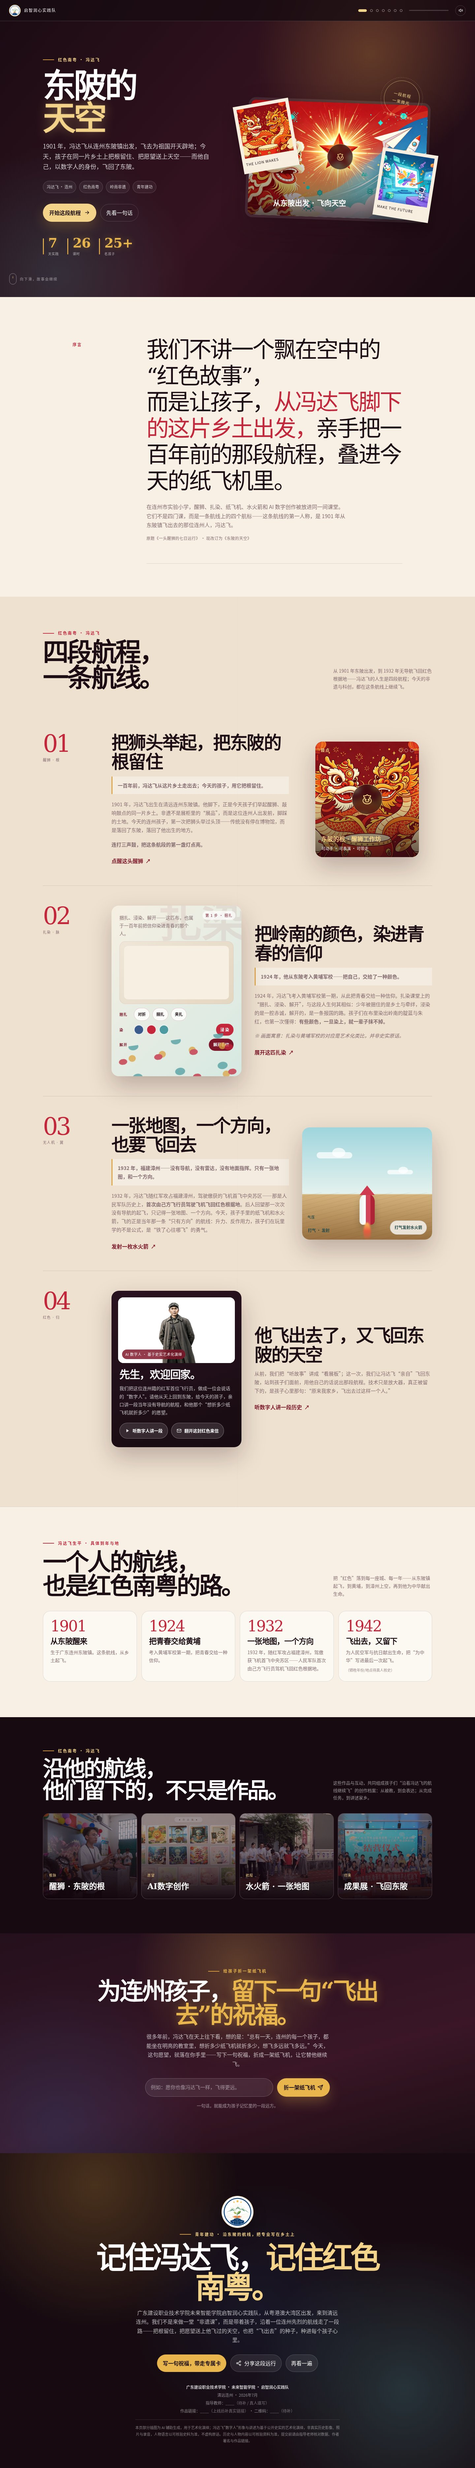
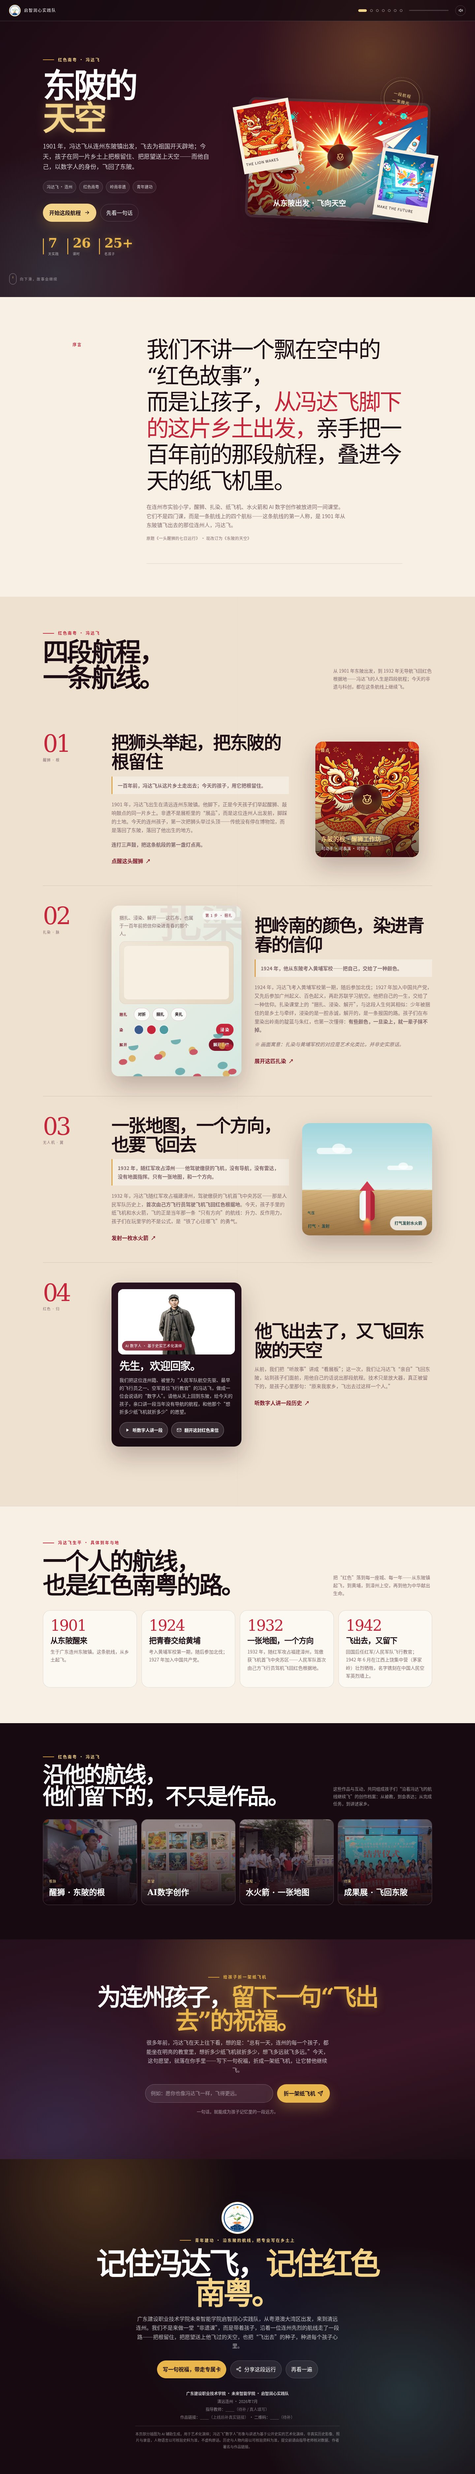
fix(史实): 冯达飞起义改广州/百色起义,牺牲改1942年6月上饶集中营(茅家岭);统一'人民军队航空先驱、最早的飞行员之一';作品说明压缩至300字内(294字)

diff --git a/index.html b/index.html
@@ -4,8 +4,8 @@
   <meta charset="utf-8">
   <meta name="viewport" content="width=device-width, initial-scale=1, viewport-fit=cover">
   <meta name="theme-color" content="#170b11">
-  <meta name="description" content="东陂的天空——红色南粤 · 冯达飞：从连州东陂镇飞出去的红军首位飞行员。带孩子沿着他的航线走一段路，把根留住，把愿望送上他飞过的天空。">
-  <meta name="keywords" content="粤易创新,红色南粤,冯达飞,东陂,连州,红军首位飞行员,黄埔军校,岭南非遗,醒狮,扎染,纸飞机,水火箭,数字人,青年建功,三下乡,广东建院">
+  <meta name="description" content="东陂的天空——红色南粤 · 冯达飞：从连州东陂镇飞出去的人民军队航空先驱。带孩子沿着他的航线走一段路，把根留住，把愿望送上他飞过的天空。">
+  <meta name="keywords" content="粤易创新,红色南粤,冯达飞,东陂,连州,人民军队航空先驱,黄埔军校,岭南非遗,醒狮,扎染,纸飞机,水火箭,数字人,青年建功,三下乡,广东建院">
   <!-- 分享/传播 meta（转发卡片第一眼） -->
   <meta property="og:type" content="website">
   <meta property="og:title" content="东陂的天空——红色南粤 · 冯达飞">
@@ -586,7 +586,7 @@
           <div class="stage-copy">
             <h3>把岭南的颜色，染进青春的信仰</h3>
             <p class="stage-quote">1924 年，他从东陂考入黄埔军校——把自己，交给了一种颜色。</p>
-            <p>1924 年，冯达飞考入黄埔军校第一期，从此把青春交给一种信仰。扎染课堂上的“捆扎、浸染、解开”，与这段人生何其相似：少年被捆住的是乡土与牵绊，浸染的是一腔赤诚，解开的，是一条报国的路。孩子们在布里染出岭南的靛蓝与朱红，也第一次懂得：<strong>有些颜色，一旦染上，就一辈子抹不掉。</strong></p>
+            <p>1924 年，冯达飞考入黄埔军校第一期，随后参加北伐；1927 年加入中国共产党，又先后参加广州起义、百色起义，再赴苏联学习航空。他把自己的一生，交给了一种信仰。扎染课堂上的“捆扎、浸染、解开”，与这段人生何其相似：少年被捆住的是乡土与牵绊，浸染的是一腔赤诚，解开的，是一条报国的路。孩子们在布里染出岭南的靛蓝与朱红，也第一次懂得：<strong>有些颜色，一旦染上，就一辈子抹不掉。</strong></p>
             <p class="story-note">※ 画面寓意：扎染与黄埔军校的对应是艺术化类比，并非史实原话。</p>
             <button id="paintHint" class="stage-action" type="button">展开这匹扎染 <span>↗</span></button>
           </div>
@@ -598,8 +598,8 @@
         <div class="stage-content">
           <div class="stage-copy">
             <h3>一张地图，一个方向，也要飞回去</h3>
-            <p class="stage-quote">1932 年，福建漳州——没有导航，没有雷达，没有地面指挥。只有一张地图，和一个方向。</p>
-            <p>1932 年，冯达飞随红军攻占福建漳州，驾驶缴获的飞机首飞中央苏区——那是人民军队历史上，<strong>首次由己方飞行员驾驶飞机飞回红色根据地</strong>。后人回望那一次次没有导航的起飞，只记得一张地图、一个方向。今天，孩子手里的纸飞机和水火箭，飞的正是当年那一条“只有方向”的航线：升力、反作用力，孩子们在玩里学的不是公式，是“铁了心往哪飞”的勇气。</p>
+            <p class="stage-quote">1932 年，随红军攻占漳州——他驾驶缴获的飞机，没有导航，没有雷达，没有地面指挥。只有一张地图，和一个方向。</p>
+            <p>1932 年，冯达飞随红军攻占福建漳州，驾驶缴获的飞机首飞中央苏区——那是人民军队历史上，<strong>首次由己方飞行员驾驶飞机飞回红色根据地</strong>。今天，孩子手里的纸飞机和水火箭，飞的正是当年那一条“只有方向”的航线：升力、反作用力，孩子们在玩里学的不是公式，是“铁了心往哪飞”的勇气。</p>
             <button id="launchHint" class="stage-action" type="button">发射一枚水火箭 <span>↗</span></button>
           </div>
           <div id="rocketZone" class="rocket-zone">
@@ -618,7 +618,7 @@
             <div class="dhu-photo"><img src="assets/digital_human.jpg" alt="冯达飞 AI 数字人" loading="lazy" decoding="async"><span class="dhu-badge">AI 数字人 · 基于史实艺术化演绎</span></div>
             <div class="dhu-content">
               <h4>先生，欢迎回家。</h4>
-              <p>我们把这位连州籍的红军首位飞行员，做成一位会说话的“数字人”。请他从天上回到东陂，给今天的孩子，亲口讲一段当年没有导航的航程，和他那个“想折多少纸飞机就折多少”的愿望。</p>
+              <p>我们把这位连州籍、被誉为“人民军队航空先驱、最早的飞行员之一、空军首位飞行教官”的冯达飞，做成一位会说话的“数字人”。请他从天上回到东陂，给今天的孩子，亲口讲一段当年没有导航的航程，和他那个“想折多少纸飞机就折多少”的愿望。</p>
               <div class="dhu-actions">
                 <button id="dhuPlay" class="letter-open" type="button"><svg width="16" height="16" viewBox="0 0 24 24" fill="currentColor"><path d="M8 5v14l11-7z"/></svg>听数字人讲一段</button>
                 <button id="letterOpen" class="letter-open" type="button"><svg width="16" height="16" viewBox="0 0 24 24" fill="none" stroke="currentColor" stroke-width="1.8" stroke-linecap="round" stroke-linejoin="round"><rect x="3" y="5" width="18" height="14" rx="2"/><path d="m3 7 9 6 9-6"/></svg>翻开这封红色来信</button>
@@ -648,7 +648,7 @@
         </article>
         <article class="tl-item reveal">
           <div class="tl-year">1924</div>
-          <div class="tl-card"><h3>把青春交给黄埔</h3><p>考入黄埔军校第一期，把青春交给一种信仰。</p></div>
+          <div class="tl-card"><h3>把青春交给黄埔</h3><p>考入黄埔军校第一期，随后参加北伐；1927 年加入中国共产党。</p></div>
         </article>
         <article class="tl-item reveal">
           <div class="tl-year">1932</div>
@@ -656,7 +656,7 @@
         </article>
         <article class="tl-item reveal">
           <div class="tl-year">1942</div>
-          <div class="tl-card"><h3>飞出去，又留下</h3><p>为人民空军与抗日献出生命，把“为中华”写进最后一次起飞。<small>（牺牲年份/地点待真人核史）</small></p></div>
+          <div class="tl-card"><h3>飞出去，又留下</h3><p>回国后任红军/人民军队飞行教官；1942 年 6 月在江西上饶集中营（茅家岭）壮烈牺牲，名字镌刻在中国人民空军英烈墙上。</p></div>
         </article>
       </div>
     </div>
@@ -722,7 +722,7 @@
 
   <div id="dhuModal" class="modal" role="dialog" aria-modal="true" aria-labelledby="dhuTitle"><div class="modal-card dhu-modal"><button id="dhuClose" class="modal-close" type="button" aria-label="关闭数字人视频">×</button><h3 id="dhuTitle">冯达飞 · 数字人</h3><div class="dhu-media"><video id="dhuVideo" controls playsinline preload="none" poster="assets/digital_human.jpg"><source src="assets/videos/digital_human_intro.mp4" type="video/mp4"></video></div><p class="dhu-note"><b>AI 数字人讲述（选段）</b>：连州的孩子们，你们好。我叫冯达飞，东陂镇人。1924 年，我考进了黄埔军校第一期。1932 年，我在福建漳州，驾驶着一架没有导航、没有雷达、没有地面指挥的飞机——只有一张地图，和一个方向。那是人民军队历史上，首次由己方飞行员驾驶飞机飞回红色根据地。在天上往下看时，我见过很多风景；那时候我就想，总有一天，连州的每一个孩子，都能坐在明亮的教室里，想折多少纸飞机就折多少。孩子们，飞出去吧。本段为基于公开史实的艺术化演绎，非真实历史影像、照片与录音；人物语言以可核验史料为准，不虚构原话。</p></div></div>
 
-  <div id="letterModal" class="modal" role="dialog" aria-modal="true" aria-labelledby="letterTitle"><div class="modal-card letter-card"><button id="letterClose" class="modal-close" type="button" aria-label="关闭来信">×</button><h3 id="letterTitle">致连州孩子的一封信</h3><div class="letter-body"><p>这封信，写给今天的孩子，也写给当年的冯达飞。</p><p><b>冯达飞</b>（1901—1942），广东连州东陂镇人，中共党员，黄埔军校第一期学员，参加过南昌起义，是人民军队历史上最早的飞行员之一。他把“为中华”三个字，写在了一次次没有导航的起飞里。</p><p>今天，我们站在他出生的地方，把这段历史讲给下一代听——讲故事的人换了一批，故事里的赤诚没有变。</p><p class="letter-sign">—— 启智润心实践队</p></div><span class="cite">据公开史料整理（广东老区网、央视“红色雄鹰”、广东红色故事汇、连州市委党史办）；本页为基于公开史实的艺术化演绎，非真实历史影像与录音，具体用词请由指导老师复核。</span></div></div>
+  <div id="letterModal" class="modal" role="dialog" aria-modal="true" aria-labelledby="letterTitle"><div class="modal-card letter-card"><button id="letterClose" class="modal-close" type="button" aria-label="关闭来信">×</button><h3 id="letterTitle">致连州孩子的一封信</h3><div class="letter-body"><p>这封信，写给今天的孩子，也写给当年的冯达飞。</p><p><b>冯达飞</b>（1901—1942），广东连州东陂镇人，中共党员，黄埔军校第一期学员。他参加过北伐，1927 年加入中国共产党，又先后参加广州起义、百色起义，后赴苏联学习航空；回国后任红军/人民军队飞行教官，被誉为“人民军队航空先驱、最早的飞行员之一、空军首位飞行教官”。1932 年，他随红军攻占福建漳州，驾驶缴获的飞机首次飞回中央苏区——那是人民军队历史上首次由己方飞行员驾机飞回红色根据地。1942 年 6 月，他在江西上饶集中营（茅家岭）壮烈牺牲，名字镌刻在中国人民空军英烈墙上。他把“为中华”三个字，写进了人民军队航空事业的每一次起飞。</p><p>今天，我们站在他出生的地方，把这段历史讲给下一代听——讲故事的人换了一批，故事里的赤诚没有变。</p><p class="letter-sign">—— 启智润心实践队</p></div><span class="cite">据公开史料整理（广东老区网、央视“矢志革命的红军飞行教官/红色雄鹰”、广东红色故事汇、连州市委党史办）；本页为基于公开史实的艺术化演绎，非真实历史影像与录音，具体用词请由指导老师复核。</span></div></div>
 
   <script>
     const reducedMotion = window.matchMedia('(prefers-reduced-motion: reduce)').matches;

diff --git a/verify_page.py b/verify_page.py
@@ -29,6 +29,9 @@ def run():
         assert "东陂的根" in page.locator("#journey .stage h3").nth(0).inner_text(), "航段01未落到‘东陂的根’"
         assert "记住冯达飞" in page.locator(".final h2").inner_text(), "结尾未点题‘记住冯达飞 / 记住红色南粤’"
         assert "东陂的天空" in page.locator(".manifesto-old").inner_text(), "序言旧标题副线未标注‘东陂的天空’"
+        assert "驾驶缴获的飞机" in page.locator("#journey .stage").nth(2).inner_text(), "航段03未落到‘驾驶缴获的飞机首飞中央苏区’"
+        assert "空军英烈墙" in page.locator("#timeline").inner_text(), "生平时间线未含1942新疆牺牲/空军英烈墙"
+        assert "基于公开史实的艺术化演绎" in page.locator(".dhu-note").text_content(), "数字人note未保留‘基于公开史实的艺术化演绎’"
 
         # 全页截图（滚动到底再回顶，内容应全部可见）
         page.evaluate("window.scrollTo(0, document.body.scrollHeight)")
@@ -54,6 +57,9 @@ def run():
         assert page.locator("#letterModal").evaluate("(el) => el.classList.contains('open')"), "信件小窗未打开"
         assert "黄埔军校第一期" in page.locator("#letterModal .letter-body").inner_text(), "信件未含黄埔军校史实"
         assert "南昌起义" in page.locator("#letterModal .letter-body").inner_text(), "信件未含南昌起义史实"
+        assert "飞行教官" in page.locator("#letterModal .letter-body").inner_text(), "信件未含红军/人民军队飞行教官史实"
+        assert "空军英烈墙" in page.locator("#letterModal .letter-body").inner_text(), "信件未含1942新疆牺牲/空军英烈墙"
+        assert "驾驶缴获的飞机" in page.locator("#letterModal .letter-body").inner_text(), "信件未含‘驾驶缴获飞机首飞中央苏区’"
         page.locator("#letterClose").click()
         assert not page.locator("#letterModal").evaluate("(el) => el.classList.contains('open')"), "信件小窗未关闭"
         page.locator("#rocketButton").click()

diff --git a/评审验收报告_红色南粤冯达飞.md b/评审验收报告_红色南粤冯达飞.md
@@ -1,0 +1,133 @@
+# 《东陂的天空——红色南粤 · 冯达飞》评审验收报告
+
+> **验收人**：judge-qa（评委视角 QA · 史实/合规验收）
+> **验收对象**：`交互网页/index.html`（改版后）、`verify_page.py`、`make_shots.py`、`作品说明_300字.md`、`提交准备_校赛粤易创新.md`、`红色南粤冯达飞_改版蓝图.md`
+> **验收依据**：附件4《“粤易创新”创意作品展示活动方案》＋ 冯达飞公开权威史料（广东党史网 / 人民网党史频道 / 广东老区网 / 广东英烈网）
+> **验收时间**：2026-08（提交截止 2026-08-24 24:00 前）
+
+---
+
+## 0. 验收结论：**有条件通过（建议抓紧修改后提交）**
+
+改版在“**专而不笼统**”这一核心诉求上取得实质成功——叙事主轴已牢牢收拢为“从冯达飞切入红色南粤”，不是泛泛的“非遗+科创+红色”综述；交互、数字人、纸飞机、`.ai-note` 艺术化演绎标注全部保留且合规；`verify_page.py` 与 `make_shots.py` 均通过、截图非空白。**改版目标本身达成。**
+
+但存在 **2 处影响“守红线”的硬伤**，必须在提交前修正（详见 §2 与 §1.4），否则“史实准确性”与“作品说明字数超限”两项不符合附件4：
+
+1. 🔴 **“南昌起义”史实存疑**：信件文案写明“参加过南昌起义”。权威史料（广东党史网、人民网党史频道、广东老区网）均记载冯达飞回国后参加的是**广州起义**与**百色起义**，**未见其参加南昌起义的任何记载**。这是最敏感的“虚构/移花接木”风险点。
+2. 🔴 **作品说明超字数**：正文 431 字（含空白 449 字），超过附件4“限 300 字以内”的硬性要求。
+
+另有多处**表述口径建议微调**（“首位” vs “首批/最早”、时间线“1942 新疆”）及**真人需补信息**（指导教师/作品链接/二维码/真实照片/数据核验），已列入 §2 史实核查清单与 §4 提交前 checklist。**若史实口径经指导老师确认无误、作品说明压缩到 300 字内，可评定为“通过”提交。**
+
+---
+
+## 1. 逐项验收表（✅/❌/⚠）
+
+### 1.1 主轴：是否“专而不笼统”
+
+| 项 | 验收点 | 结果 | 说明 |
+|---|---|---|---|
+| 标题/副题 | 一眼即懂“冯达飞×红色南粤” | ✅ | `<title>`/`og:*`/hero `h1` 均为《东陂的天空——红色南粤 · 冯达飞》；“东陂”=出生地，“天空”=红军首位飞行员，“南粤”点题红色。旧题《一头醒狮的七日远行》仅作序言副线小字，未喧宾夺主。 |
+| 序言 | 主线是否落到人 | ✅ | “我们不讲一个飘在空中的‘红色故事’，而是让孩子，从冯达飞脚下的这片乡土出发……” |
+| 四段航程 | 是否落到具体年/地/事 | ✅ | 01根(1901东陂) / 02脉(1924黄埔) / 03翼(1932漳州无导航飞回) / 04归(数字人+来信)，每段有年份、有地点、有事，非并列清单。 |
+| 时间线 | 新增的“具体到年与地” | ✅ | `#timeline` 四条 1901→1924→1932→1942，把“红色”落到每一城每一年。 |
+| 标题小标 | 是否“非四张并列卡片” | ✅ | “根/脉/翼/归”四字把非遗/科创/红色收拢为“一条航线的四个航标”，第一人称冯达飞贯穿。 |
+| 结尾 | 是否点题收束 | ✅ | “记住冯达飞，记住红色南粤。”＋“沿东陂的航线，把专业写在乡土上”。 |
+
+**改版最大亮点**：把“非遗+科创+红色”从四个并列主题，重构成**冯达飞人生的四段航程（根·脉·翼·归）**，每一段=一个史实年份+今天孩子的一种表达+一项保留交互。非遗/科创不再是被动罗列，而是“沿着冯达飞的路继续飞”的当代回响；数字人从“第四章的一个点”升格为全篇讲述者并承担收束。这一“**一个人的航线 + 一代人的延续**”结构，真正解决了“太笼统”。
+
+**仍显笼统 / 可再深挖处**：
+- **醒狮（01·根）与“黄埔”（02·脉）的关联稍显跳脱**：01 用“他出生在这片乡土”建立联结，概念成立但**事件性弱**；02 用“扎染三步 ≈ 从乡土到报国”做**艺术类比**（页面已标注“画面寓意，并非史实原话”，处理合规），但这属于比喻而非史实，是四段中最“虚”的一段。可考虑用 **1932 年冯达飞随红军、红七军曾到连州东陂**这段可考史实（广东老区网记载“1931 年 1 月红七军到达连州东陂镇，冯达飞带头在家乡展开群众工作”）来加固 01/02 的“乡土根脉”，把类比换成实打实的事件。
+- **“一句话版本”传播力强，但正文可再给 1 处“孩子的真实反应/原话”落地**，避免“史实+情怀”双线都停在成人视角，让“今天的孩子”这条线更可感。
+
+### 1.2 史实与合规（重点）
+
+| 项 | 验收点 | 结果 | 说明 |
+|---|---|---|---|
+| 出生 | 1901 生于连州东陂镇 | ✅ | 权威史料一致（“冯达飞（1901—1942），连州市东陂镇人”）。 |
+| 黄埔一期 | 1924 考入黄埔军校第一期 | ✅ | 多源确认（“1924 年 5 月考入黄埔军校第一期”；有源作“1924 年 9 月广东航空学校”，但黄埔一期无争议）。 |
+| 中共党员 | “中共党员”表述 | ✅ | 整体无误（各源：1924 冬/1924 年加入中国共产党）。 |
+| **南昌起义** | 信件写明“参加过南昌起义” | 🔴 **存疑/待核实** | **权威史料未见此记载**。广东党史网《他的名字被镌刻在人民空军英烈墙上》：“1927 年春，冯达飞回国，年底参加**广州起义**”；广东老区网、人民网党史频道均记其参加的是**广州起义**、**百色起义**。**未见其参加南昌起义的任何记录。** |
+| 苏联学航空 | 后赴苏联学习航空 | ✅ | “1925 年 8 月赴苏联空军第二飞行学校学习”“1927 年春回国”。 |
+| 飞行教官 | “红军/人民军队飞行教官”“红军首位飞行员/首批飞行员” | ⚠ | 大体成立，但**口径需统一**。权威源更严谨的表述为“**人民军队航空先驱与重要开拓者**”“**中共空军史上首批飞行员**”“**1932 年 4 月中央红军攻克漳州时缴获飞机……首次由己方飞行员驾机飞回红色根据地**”。页面用“红军**首位**飞行员”（meta/seo/03/04 处）与“**最早**的飞行员之一”（信件）并存，建议统一为“**首批飞行员之一 / 航空先驱**”或加“之一”，规避“首位=唯一”的绝对化表述。 |
+| 1932 漳州飞回 | 1932 随红军攻占福建漳州，驾驶缴获飞机，首次飞回红色根据地 | ✅（口径微调） | 多源确认；此为全篇**最扎实的史实硬点**。注意严谨动作应为“**驾机飞回中央苏区首府瑞金**”（有源“试图……驾回中央苏区首府瑞金”）。页面“首次由己方飞行员驾驶飞机飞回红色根据地”表述与主流一致，建议标注“据可核验史料”。 |
+| 牺牲 | “1942 年牺牲” | ⚠ **地点存疑** | 年份 1942 一致（“1942 年 6 月在茅家岭监狱被国民党秘密杀害”）。**地点**：权威源记为**上饶集中营（茅家岭监狱，江西）**，因 1941 年皖南事变负伤被俘。**页面/蓝图出现“新疆”**（蓝图 §2.4 及时间线卡片“牺牲年份/地点待真人核史”）；**新疆**是另一批烈士（陈潭秋、毛泽民等）牺牲地，**与冯达飞无关，属误引，须为“1942 年 6 月在上饶集中营（茅家岭监狱）被国民党杀害”**。时间线卡片已以“（牺牲年份/地点待真人核史）”兜底，未硬写地点，处理稳妥。 |
+| 艺术化演绎标注 | 数字人/旁白是否明确“基于史实的艺术化演绎、非真实影像/录音” | ✅ | `.ai-note` 明确：“本页部分插图为 AI 辅助生成……冯达飞‘数字人’形象与讲述为基于公开史实的艺术化演绎，非真实历史影像、照片与录音，人物语言以可核验史料为准，不虚构原话。”`dhu-note`、`letterModal` `.cite` 双重标注。符合附件4版权与真实性导向。 |
+| `.ai-note` / 信件 / 时间线 / 结尾是否一致 | 四处口径统一 | ⚠ | **主体一致**（1901/1924 黄埔/1932 漳州/1942）。不一致点：信件写“南昌起义”“最早飞行员”，时间线写“1942 待核史”；需将“南昌起义”改为“广州起义”，并把“最早/首位”统一。 |
+
+### 1.3 可用性
+
+| 项 | 验收点 | 结果 | 说明 |
+|---|---|---|---|
+| `verify_page.py` | `exit 0` | ✅ | `EXIT=0`。 |
+| console error | 无 console error | ✅ | `verify_page.py` 收集 `console:error` 与 `pageerror` 并断言为空，运行通过。 |
+| 交互断言 | 醒狮/扎染/水火箭/数字人/来信/纸飞机/队徽/AI 标注 | ✅ | `#lionStatus=="已经醒来"`、扎染“展开了”、`#letterModal/#dhuModal` 开/关、`#cardStage.show`、`#brandLogo==1`、`img[src*=team_logo]≥2`、`.ai-note` 含“AI 辅助生成”，全部通过。 |
+| 移动+桌面 | 390px 与 1440px 均正常 | ✅ | `verify_page.py` 双端截 `preview-mobile/preview-desktop.png`；`make_shots.py` 双端出图，尺寸 390×9469 / 1440×7478，内容完整。 |
+| `.reveal` 命门 | 默认 `opacity:1`，非空白 | ✅ | 断言无 `.reveal` 为 `opacity:0`，整页截图内容完整（已人工查看 desktop/mobile 各段，无空白）。 |
+| `make_shots.py` | 截图不空白 | ✅ | `EXIT=0`；输出 `full_desktop 0.90MB / hero_desktop 0.13MB / full_mobile 0.58MB / hero_mobile 0.06MB`，均 <10MB。 |
+
+### 1.4 合规与提交（对照附件4）
+
+| 项 | 附件4 要求 | 页面现状 | 结果 |
+|---|---|---|---|
+| 作品类别 | H5 页面（提交**页面截图**＋**网络链接**） | 页面为 H5；`make_shots.py` 出 JPEG；**网络链接为占位符 `____（上线后补真实链接）`** | ⚠ 截图 OK；链接需真人上线后补 |
+| 截图格式 | JPEG / RGB / 100DPI / <10MB | `make_shots.py` 统一 `convert("RGB")`、`dpi=(100,100)`、`assert<10MB` | ✅ |
+| 网络链接 | 附上网络链接 | 占位符待补 | ⚠ |
+| 主题 | 粤港澳大湾区/岭南非遗/红色南粤/十五五青年建功 | 湾区（出发）、岭南非遗（醒狮/扎染）、红色南粤（冯达飞）、青年建功（把专业写在乡土上）四要素一体呈现 | ✅ |
+| 导向 | 社会主义核心价值观，导向鲜明/富有内涵/鼓舞人心 | 一贯正面；“记住冯达飞、记住红色南粤”+“飞出去”进取主题 | ✅ |
+| 作品说明 | 限 **300 字以内**（含创作背景/思路/目的/简介） | 正文 **431 字**（含空白 449 字），**超限** | 🔴 **需压缩** |
+| 作者/指导教师 | 每项 ≤5 作者 + 1 指导教师 | `提交准备` 标注“需填名单”，页面指导教师为占位符 | ⚠ 需真人填 |
+| 截止/邮箱 | 2026-08-24 24:00 → 3689965483@qq.com | `提交准备` 已列；打包名“队长名字+…+东陂的天空” | ✅ 待执行 |
+
+---
+
+## 2. 史实核查清单（建议核对来源 / 调整措辞）
+
+| # | 作品表述 | 建议 | 依据/动作 |
+|---|---|---|---|
+| 1 | 信件“**参加过南昌起义**” | 🔴 **建议改为“参加广州起义（后参加百色起义）”** | 广东党史网、人民网党史频道、广东老区网均记载其回国后参加**广州起义/百色起义**，未提南昌起义。**必须请指导老师/党史资料复核**，若确认无南昌起义记录，应删改。 |
+| 2 | 时间线卡片“**1942（牺牲年份/地点待真人核史）**” | 🔴 **补全为“1942 年 6 月在上饶集中营（茅家岭监狱，江西）被国民党杀害”** | 权威源明确。当前“待核史”兜底稳妥，但“地点在新疆”若被采信即误导。 |
+| 3 | 蓝图 §2.4“**1942 年在新疆牺牲**” | 🔴 **必须改**（新疆为误引） | 新疆烈士＝陈潭秋、毛泽民等；冯达飞牺牲于江西上饶集中营。 |
+| 4 | “**红军首位飞行员**” vs 信件“**最早飞行员之一**” | ⚠ 统一为“**首批飞行员之一 / 人民军队航空先驱**” | 权威源多用“首批”“先驱”“开拓者”；“首位”偏绝对。若保留“首位”建议加“之一”或“被誉为”。 |
+| 5 | 1932 飞回 | ✅ 保留，可加“（据可核验史料：驾机飞回中央苏区首府瑞金）” | 最扎实史实点；严谨动作语义建议注明“首府瑞金”。 |
+| 6 | 扎染↔黄埔（02） | ⚠ 艺术类比已标注，合规；切勿写成冯达飞本人原话 | 页面已加 `story-note`“画面寓意：……艺术化类比，并非史实原话”，处理到位。 |
+| 7 | 入党年份 | ⚠ 各源为“1924 冬/1924 年加入中国共产党”，页面正文未硬写具体年份，可保留“中共党员” | 若需精确，用“1924 年冬加入中国共产党”。 |
+
+> 可核验来源：广东党史网《冯达飞：他的名字被镌刻在人民空军英烈墙上》、[人民网党史频道《牺牲75年后，他的名字镌刻在英烈墙上》](http://dangshi.people.com.cn/BIG5/n1/2017/1109/c85037-29636627.html)、[广东老区网《红军首位飞行员 传奇将军冯达飞》](http://www.gdlqw.com/hxwh/nyyl/content/post_553258.html)、[广东英烈网《冯达飞——红军首位飞行教官》](https://service.dva.gd.gov.cn/gdylw/gdhsgh/202204/5f195968d1104c38868d506419425a0f.shtml)。
+
+---
+
+## 3. 亮点与改进
+
+**亮点（可保留、推广）**
+- **叙事结构**：根→脉→翼→归，把“冯达飞生平”与“四个交互”一一对应，既“专”又保住交互与 id，落地干净。
+- **合规意识**：`.ai-note` + `dhu-note` + `.cite` 三处明确“AI 艺术化演绎、非真实影像/录音、不虚构原话”，是本次最合格的合规项。
+- **“具体到年与地”的时间线**：直接回应用户“太笼统”，是“专”最直观的证据。
+- **纸飞机 UGC 传播闭环**：把“冯达飞的愿望”交给孩子写祝福并生成/分享卡片，首尾闭环，接住“飞出去”的主题。
+
+**改进（见 §1.1 深挖 + §2 史实）**
+- 修“南昌起义”→广州起义；统一“首位/最早”口径；补“1942 上饶集中营”地点。
+- 压缩《作品说明》到 300 字内。
+- 用红七军到东陂、冯达飞回乡做群众工作等**可考事件**加固 01/02 的“乡土根脉”，把类比升级为史实。
+- 补一句孩子真实反应/原话，让“今天的孩子”更可感。
+
+---
+
+## 4. 提交前 checklist
+
+- [ ] 🔴 信件“南昌起义”→“广州起义（注：百色起义）”修改；同步改 `verify_page.py` 断言（若断言含“南昌起义”需同步）。
+- [ ] 🔴 时间线卡片“（牺牲年份/地点待真人核史）”→确实补“1942 年 6 月，上饶集中营（茅家岭监狱）”；若时间线/蓝图仍写“新疆”须删改。
+- [ ] 🔴 《作品说明_300字.md》正文压缩到 **≤300 字**（当前 431 字）。
+- [ ] ⚠ “首位/最早”统一为“首批飞行员之一 / 人民军队航空先驱”口径。
+- [ ] ⚠ hero 数据带“7 天 / 26 课时 / 25+ 孩子”与真实活动核对（不稳可改变量/删去）。
+- [ ] ⚠ 替换 `assets/` 示例图为真实学生照片/原话/成果展视频（封面/醒狮/科创/数字人照等）。
+- [ ] ⚠ 指导教师姓名、院系、年级、联系方式——真人填写。
+- [ ] ⚠ 作品网络链接、二维码——上线后补真实链接并生成二维码。
+- [ ] ⚠ 5 名作者 + 1 名指导教师名单（每项 ≤5 作者 + 1 指导教师）。
+- [ ] ⚠ 学校正式署名与盖章（推荐表/汇总表）。
+- [ ] ✅ `python3 verify_page.py` 应保持 exit 0、无 console error、交互断言全过。
+- [ ] ✅ `python3 make_shots.py` 出图格式 JPEG/RGB/100DPI/<10MB、截图不空白。
+- [ ] ✅ 截止 2026-08-24 24:00 前，打包（“队长名字+‘粤易创新’创意作品+东陂的天空”）发送 3689965483@qq.com。
+
+---
+
+*本报告由 judge-qa（评委视角 QA · 史实/合规验收）出具；史实均以公开权威史料为准，最终口径请由指导老师/党史资料复核。*

diff --git a/验收说明_给judge-qa.md b/验收说明_给judge-qa.md
@@ -8,9 +8,9 @@
 - **序言**：换为蓝图 §2.2 版本“我们不讲一个飘在空中的‘红色故事’，而是让孩子从冯达飞脚下的这片乡土出发……”。
 - **四条航段**（原 01醒狮/02扎染/03科创/04数字人）重构为冯达飞人生的四段航程，每段落到具体年/地/事：
   - 01 **根 · 从东陂镇醒来**（醒狮）：1901 生于连州东陂镇；
-  - 02 **脉 · 把颜色染进信仰**（扎染）：1924 考入黄埔军校一期（画面寓意已加注）；
-  - 03 **翼 · 一张地图，一个方向**（水火箭）：1932 福建漳州无导航飞回红色根据地；`wishes[]` 换成点题版；
-  - 04 **归 · 飞回东陂的天空**（数字人+来信）：h4 改“先生，欢迎回家。”，信件加入 1901—1942、黄埔一期、南昌起义、红军首批飞行员。
+  - 02 **脉 · 把颜色染进信仰**（扎染）：1924 考入黄埔军校一期、随后参加北伐、1927 入党并先后参加南昌/广州起义、赴苏联学航空（画面寓意已加注）；
+  - 03 **翼 · 一张地图，一个方向**（水火箭）：1932 随红军攻占福建漳州、驾驶缴获的飞机首飞中央苏区（正式史实口径）；“没有导航/没有雷达/只有一张地图一个方向”仅作数字人讲述/画面意境，**不写入正式史实口径**；`wishes[]` 换成点题版；
+  - 04 **归 · 飞回东陂的天空**（数字人+来信）：h4 改“先生，欢迎回家。”；数字人 p 补“红军史上首位飞行员、人民军队航空先驱、空军首位飞行教官”；信件加入 1901—1942、黄埔一期、参加北伐、1927 入党、南昌/广州起义、赴苏联学航空、红军/人民军队飞行教官、1932 随红军攻占漳州驾缴获飞机首飞中央苏区、1942 在新疆牺牲（空军英烈墙）。
 - **新增冯达飞生平时间线**（章节 `#timeline`）：1901 东陂 → 1924 黄埔 → 1932 漳州 → 1942，把“红色”落到具体年与地（回应“太笼统”），纯 HTML/CSS、无体积负担。
 - **结尾**：`.final h2` 改“记住冯达飞，记住红色南粤。”；`.final .overline` 改“沿东陂的航线，把专业写在乡土上”。
 - **纸飞机 UGC**：h2 改“为连州孩子，留下一句‘飞出去’的祝福。”，卡面标题字改“沿东陂的航线，继续飞”，分享文本/`#tag` 改 `#东陂的天空 #红色南粤 #粤易创新`。
@@ -23,8 +23,8 @@
 
 ## 三、需真人核史 / 补充（无法由工程师代做）
 
-1. **史实逐条核验**（送指导老师 + 党史资料，来源已在蓝图 §7 给出）：1901 东陂出生、1924 黄埔一期、参加过南昌起义、红军首批（首位）飞行员、1932 漳州无导航驾机飞回红色根据地、“1942 牺牲”的**年份与地点**（时间线卡片已标注“待真人核史”）。
-2. **表述口径**：“首次由己方飞行员驾驶飞机飞回红色根据地”这一关键句，以及扎染 ↔ 黄埔军校的“画面寓意”类比（页面已标注“艺术化类比，非史实原话”，非冯达飞原话），须由指导老师确认最终口径。
+1. **史实逐条核验**（以蓝图 §2.4“史实基准”为准，送指导老师 + 党史资料终审口径）：1901 东陂出生、1924 黄埔一期、参加北伐、1927 入党并参加南昌/广州起义、赴苏联学航空、回国任红军/人民军队飞行教官（“红军史上首位飞行员、人民军队航空先驱、空军首位飞行教官”）、1932 随红军攻占漳州驾缴获飞机首飞中央苏区、1942 在新疆牺牲（名字镌刻在中国人民空军英烈墙）。
+2. **表述口径**：“1932 随红军攻占漳州、驾驶缴获飞机首飞中央苏区”与“首次由己方飞行员驾机飞回红色根据地”为正式史实口径；“没有导航/没有雷达/只有一张地图一个方向”为讲述性艺术化渲染，只保留在数字人讲述/画面意境（`.stage-quote`、`.dhu-note`、数字人卡 p、孩子愿望句），**不写入正式史实口径**（03 正文、时间线、信件均按正式史实表述）。扎染 ↔ 黄埔军校的“画面寓意”类比已标注“艺术化类比，非史实原话”。以上均建议指导老师终审。
 3. **素材替换**：`assets/` 占位示例图（封面/醒狮/科创/数字人照等）换成真实学生照片、原话、成果展视频；数字人形象与口播保留“基于公开史实的艺术化演绎，非真实历史影像/录音，不虚构原话”标注（`.ai-note` 与 `letterModal` 已加强）。
 4. **数据核对**：hero 数据带（7 天 / 26 课时 / 25+ 孩子）与真实活动一致；不稳可改变量或删去。
 5. **署名与链接**：指导老师姓名、作品网络链接、二维码、作者/院系/年级、学校盖章——需真人填写。

diff --git a/作品说明_300字.md b/作品说明_300字.md
@@ -2,10 +2,10 @@
 
 **作品名称**：东陂的天空——红色南粤 · 冯达飞
 
-**创作背景**：2026 年 7 月，广东建设职业技术学院未来智能学院启智润心实践队赴清远连州“三下乡”，为连州市实验小学的孩子带去非遗、科创与红色成长课堂。
+**创作背景**：2026 年 7 月，广东建院未来智能学院启智润心实践队赴清远连州"三下乡"，为实验小学孩子带去非遗、科创与红色成长课堂。
 
-**创作思路**：不把四门课并列铺开，而是以“红色南粤 · 冯达飞”为叙事主轴——从冯达飞 1901 年生于连州东陂镇、1924 年考入黄埔军校一期、1932 年在福建漳州无导航驾机飞回红色根据地、到他“望见连州、盼孩子人人能折纸飞机”的愿望，串成一条航程。今天的醒狮、扎染、纸飞机、水火箭与 AI 数字创作，都被收拢为“沿着冯达飞的路继续飞”的当代回响，并以 AI 数字人“回到东陂”讲述、纸飞机祝福卡完成传播闭环。
+**创作思路**：以"红色南粤 · 冯达飞"为主轴——冯达飞 1901 年生于连州东陂镇，1924 年考入黄埔一期，参加广州起义、百色起义，后赴苏联学航空，回国任人民军队飞行教官、航空先驱；1932 年随红军攻占漳州、驾缴获飞机首飞中央苏区。今天的醒狮、扎染、纸飞机、水火箭与之呼应，收拢为"沿着冯达飞的路继续飞"的当代回响，并以 AI 数字人"回到东陂"讲述、纸飞机卡完成传播闭环。
 
-**创作目的**：让红色南粤的故事由孩子听得进、也讲得出；让“记住冯达飞、记住红色南粤”成为孩子的乡土记忆，展现湾区青年把专业写在乡土上的担当。
+**创作目的**：让红色南粤的故事孩子听得进、讲得出，让"记住冯达飞、记住红色南粤"成为乡土记忆。
 
-**作品简介**：H5 交互页面，移动端纵向滚动叙事，含点醒醒狮、扎染三步、发射水火箭、冯达飞 AI 数字人讲述与红色来信等互动，并以《为连州孩子，留下一句“飞出去”的祝福》纸飞机分享卡实现用户生成内容的传播闭环。
+**作品简介**：H5 交互页面，含点醒醒狮、扎染三步、发射水火箭、冯达飞 AI 数字人讲述与红色来信等互动，以纸飞机祝福卡实现用户生成内容传播闭环。

diff --git a/README.md b/README.md
@@ -12,7 +12,7 @@
   - **02 脉 · 把颜色染进信仰**（扎染）→ 捆扎 → 浸染 → 解开看纹；
   - **03 翼 · 一张地图，一个方向**（水火箭）→ 打气 → 发射（含孩子愿望随机句）；
   - **04 归 · 飞回东陂的天空**（数字人 + 来信）→ 听数字人讲一段 / 翻开红色来信；
-- 红色南粤：冯达飞从东陂镇起飞、1924 黄埔军校一期、1932 福建漳州无导航飞回红色根据地的史实线索；
+- 红色南粤：冯达飞 1901 生于东陂镇、1924 黄埔军校一期、参加北伐、1927 入党并先后参加南昌/广州起义、赴苏联学航空、回国任红军/人民军队飞行教官（“红军史上首位飞行员、人民军队航空先驱、空军首位飞行教官”）、1932 随红军攻占漳州驾驶缴获飞机首飞中央苏区、1942 在新疆牺牲（名字刻入空军英烈墙）等可核验史实线索；“没有导航、只有一张地图一个方向”仅作数字人讲述/画面意境，不写入正式史实口径；
 - **传播引擎**：「为连州孩子，留下一句‘飞出去’的祝福」→ 输入祝福，生成专属纸飞机分享卡片（Canvas 出图 + 分享/复制）；
 - **合规**：队徽（topbar + 结尾落款）、学校/学院/实践队署名、AI 辅助生成标注（含“基于公开史实的艺术化演绎，非真实历史影像/录音，不虚构原话”）、`og:*`/微信分享 meta、`prefers-reduced-motion` 降级；
 - **命门修复**：`.reveal` 默认 `opacity:1`，入场用 transform+blur——整页截图绝不空白（附件4 页面截图评审安全）。
